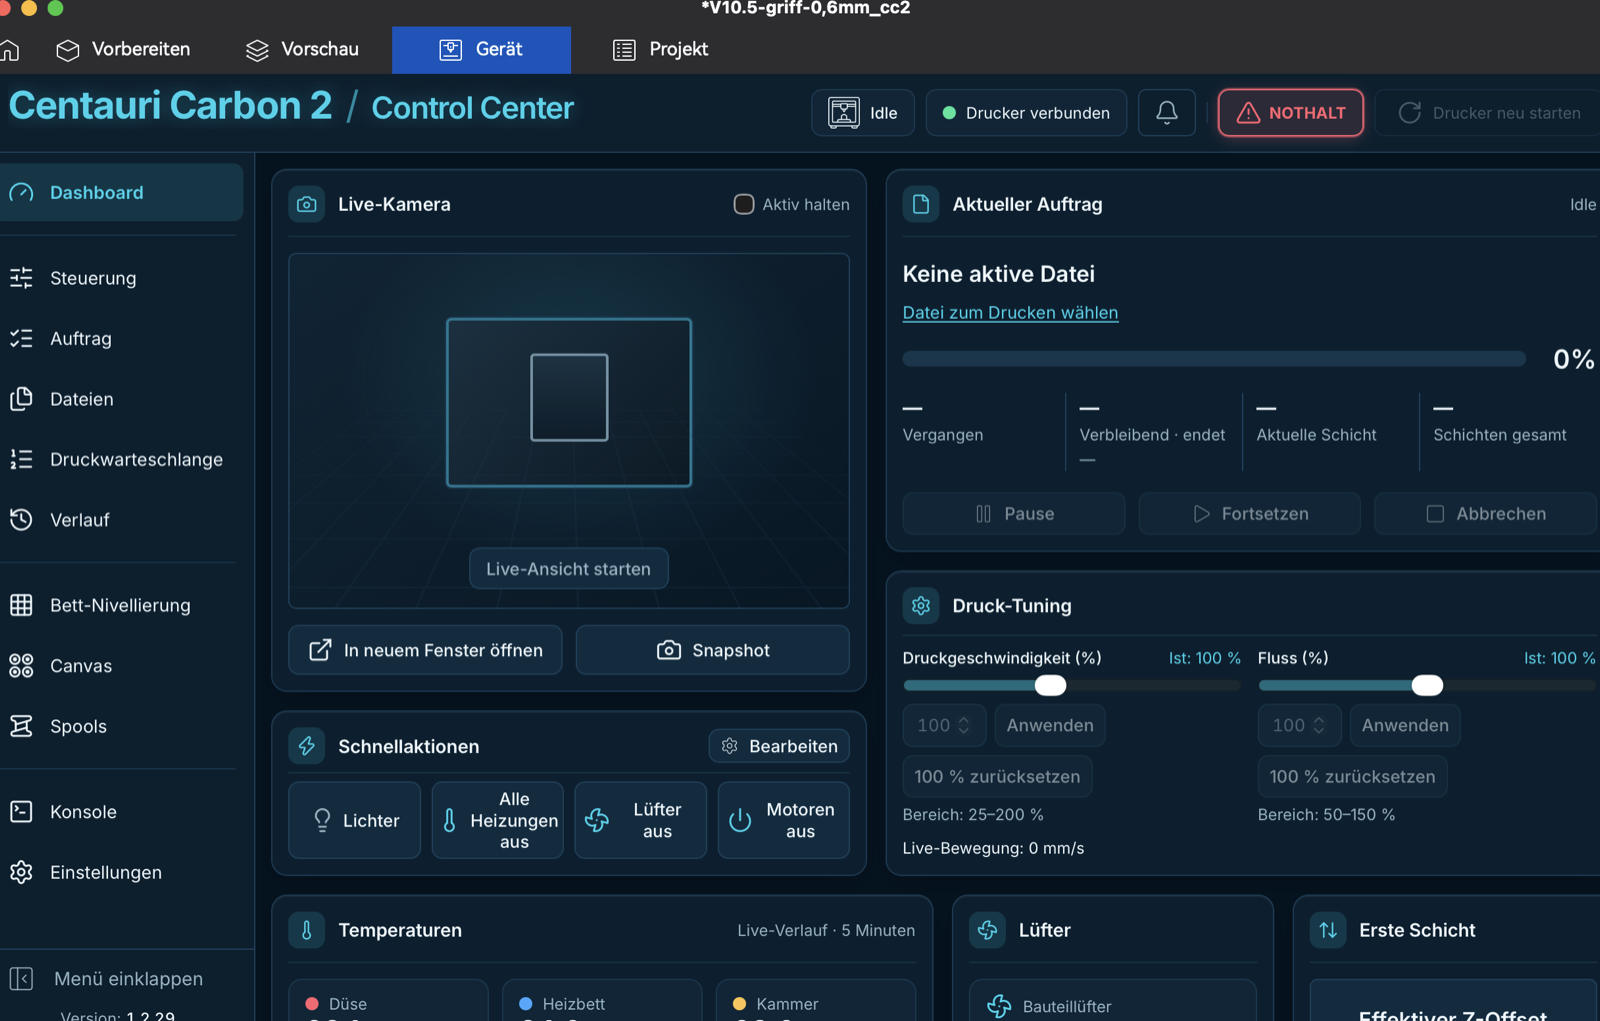
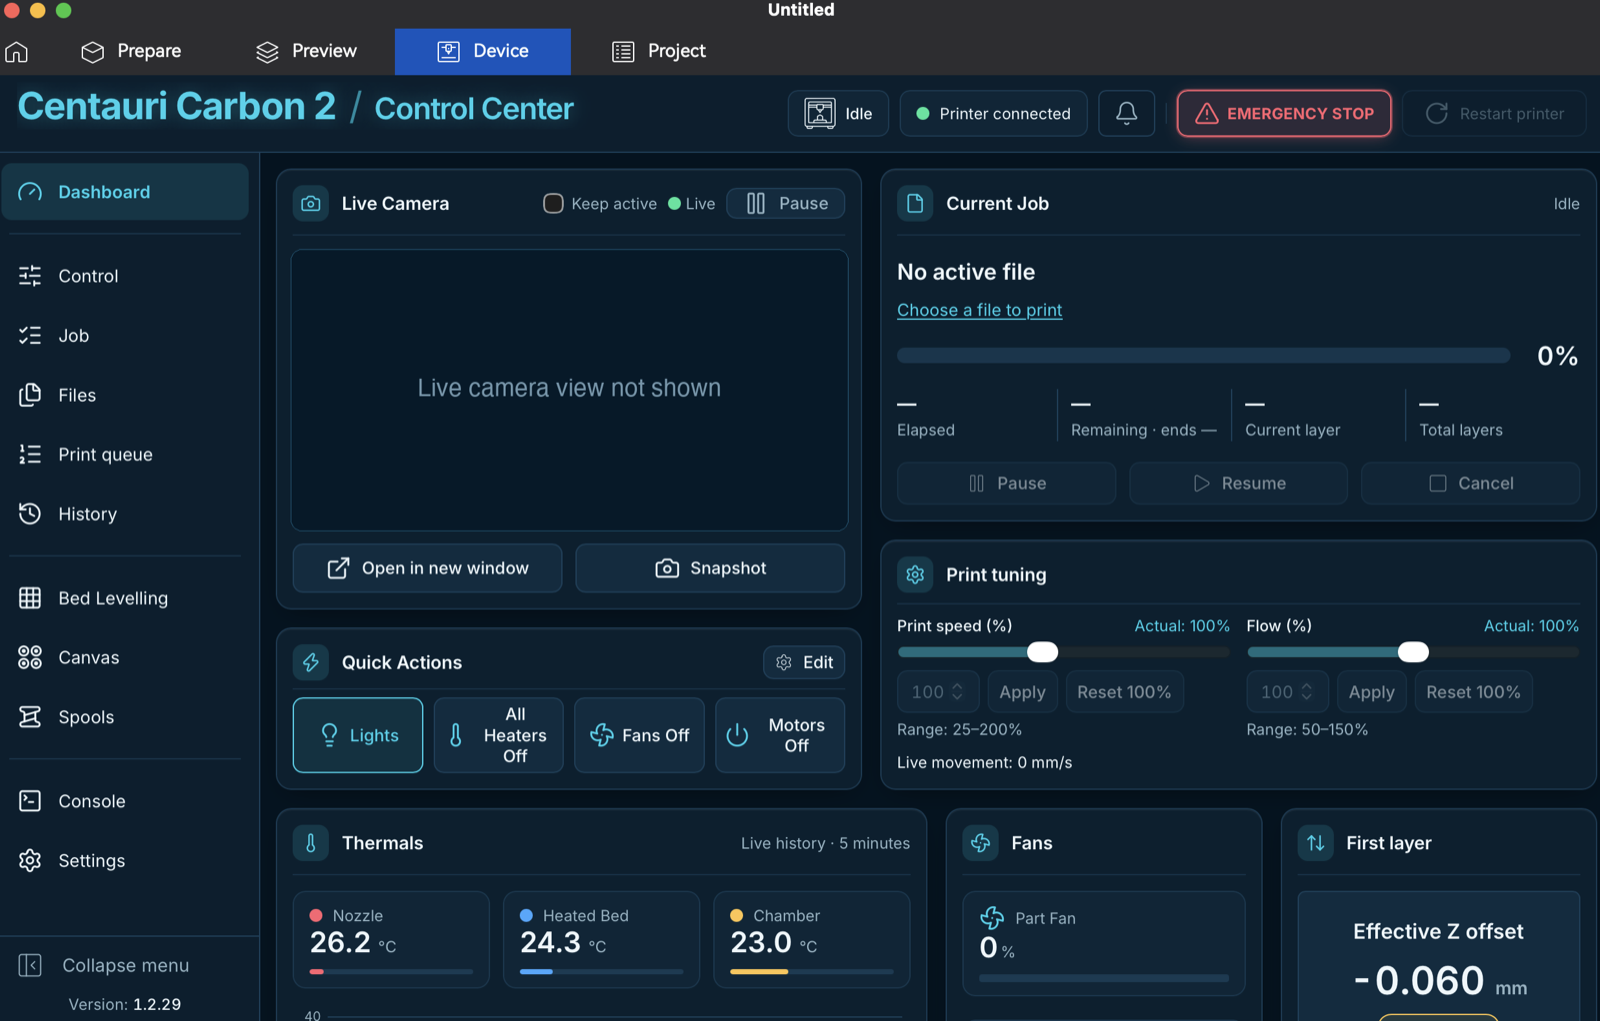
docs: English screenshots of the print dialog and the Device tab
The ElegooSlicer print dialog and the Device tab showing CC2 Control are now
English; the live camera view in the Device tab screenshot is covered by a
neutral placeholder. The spool confirmation screenshot stays German and is
marked as such in the guide.

diff --git a/docs/ELEGOOSLICER.it.md b/docs/ELEGOOSLICER.it.md
@@ -51,15 +51,15 @@ Il menu Aiuto dello slicer ha la voce **Show Configuration Folder** (passo 3); i
 
 ![Il menu Aiuto di ElegooSlicer con Show Configuration Folder e il profilo CC2 Control nel campo stampante](images/elegooslicer-help-menu.png)
 
-Con il profilo scelto, **Stampa** apre questa finestra (mostrata in un ElegooSlicer in tedesco); il campo stampante in alto a sinistra mostra il profilo:
+Con il profilo scelto, **Stampa** apre questa finestra:
 
-![ElegooSlicer con il profilo CC2 Control: la finestra «Invia G-code all'host di stampa» con Carica e Carica e stampa](images/elegooslicer-print-dialog.png)
+![La finestra di ElegooSlicer «Send G-code to printer host» con Carica e Carica e stampa](images/elegooslicer-print-dialog.png)
 
-La scheda **Dispositivo** mostra poi CC2 Control:
+La scheda **Dispositivo** mostra poi CC2 Control (la vista della telecamera dal vivo qui non è mostrata):
 
 ![La scheda Dispositivo di ElegooSlicer con la dashboard di CC2 Control](images/elegooslicer-device-tab.png)
 
-**Carica e stampa** apre in CC2 Control la conferma della bobina Canvas; la stampa parte solo dopo la conferma lì:
+**Carica e stampa** apre in CC2 Control la conferma della bobina Canvas; la stampa parte solo dopo la conferma lì (mostrata in un CC2 Control in tedesco):
 
 ![La conferma della bobina Canvas di CC2 Control per una stampa inviata da ElegooSlicer](images/elegooslicer-spool-confirmation.png)
 

diff --git a/docs/ELEGOOSLICER.md b/docs/ELEGOOSLICER.md
@@ -51,15 +51,15 @@ The slicer's Help menu has the entry **Show Configuration Folder** (step 3); the
 
 ![The ElegooSlicer Help menu with Show Configuration Folder and the CC2 Control profile in the printer field](images/elegooslicer-help-menu.png)
 
-With the profile chosen, **Print** opens this dialog (shown in a German ElegooSlicer); the printer field at the top left shows the profile:
+With the profile chosen, **Print** opens this dialog:
 
-![ElegooSlicer with the CC2 Control profile: the dialog "Send G-code to the printer host" with Upload and Upload and Print](images/elegooslicer-print-dialog.png)
+![The ElegooSlicer dialog "Send G-code to printer host" with Upload and Upload and Print](images/elegooslicer-print-dialog.png)
 
-The **Device** tab then shows CC2 Control:
+The **Device** tab then shows CC2 Control (the live camera view is not shown here):
 
 ![The ElegooSlicer Device tab showing the CC2 Control dashboard](images/elegooslicer-device-tab.png)
 
-**Upload and Print** opens the Canvas spool confirmation in CC2 Control; the print only starts after you confirm it there:
+**Upload and Print** opens the Canvas spool confirmation in CC2 Control; the print only starts after you confirm it there (shown in a German CC2 Control):
 
 ![CC2 Control's Canvas spool confirmation for a print sent from ElegooSlicer](images/elegooslicer-spool-confirmation.png)
 
